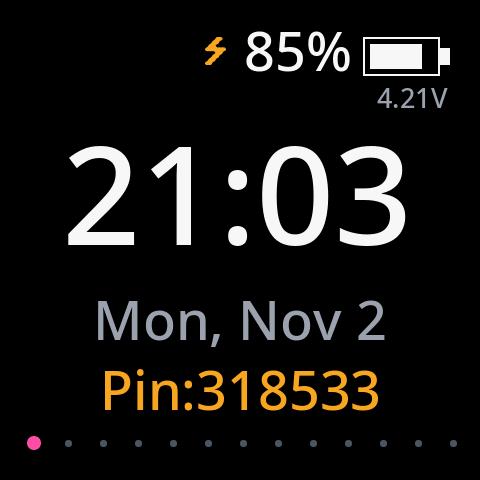
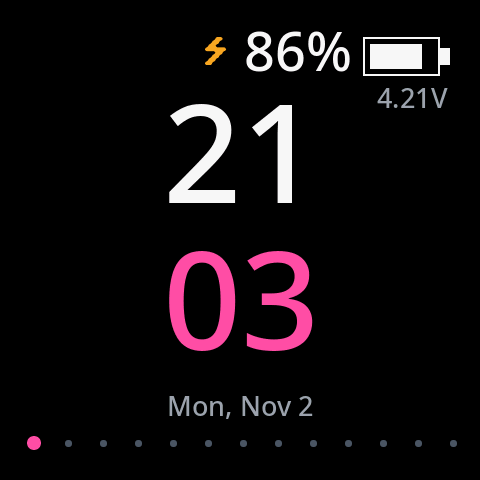
Repo cleanup: correct face screenshots, pin MeshCore in setup, current battery figures, CI update
- Screenshots: four clock face images showed the wrong face; face-big also showed a
  Bluetooth PIN. Replaced with the right ones.
- setup.sh now fetches the tested MeshCore (ci/pins.sh) instead of the default branch.
- README and DEVELOPMENT: battery figures from the overnight tests, undocumented test flags,
  LilyGo report link, no emoji in the highlights.
- Firmware zips carry the license notices; Bosch driver/firmware and SDK licenses added.
- CI: actions on Node 24, read-only token, docs-only pushes skip the build, flasher kept
  in the artifact.

Claude-Session: https://claude.ai/code/session_01BS1aGn1iJtHJb5F6A6tQgK

diff --git a/docs/DEVELOPMENT.md b/docs/DEVELOPMENT.md
@@ -38,7 +38,7 @@ lib/              vendored Crypto, CayenneLPP, base64, and MeshCore (lib/MeshCor
 flasher/          sf32-flash.py: the stand-alone flasher for users (no SDK; downloads sftool)
 tools/            sf32_debug_uart.py (flashing helper, crash debugging), shot.sh
                   (screenshots), touch.sh (remote touch, debug builds), pmstats.sh (sleep
-                  counters), gen_font.py (the UI font)
+                  counters), abstats.sh (battery tests), gen_font.py (the UI font)
 sdk-patches/      the SDK fixes below (setup.sh applies them)
 setup.sh          one-time setup: MeshCore, SDK fixes, SDK link
 env.sh            activates the SDK through ~/sifli-lilygo-sdk (a symlink; the SDK's
@@ -61,9 +61,11 @@ SF32_LOG_LEVEL=LOG_LVL_INFO ./build.sh companion   # keep log output (debugging)
   it fetches pinned versions of LilyGo's SDK, the upstream SDK's `rtos/env/packages` and
   MeshCore (`MESHCORE_REF`, default `companion-v1.18.0`) into `.ci/`, installs the SDK's
   toolchain (needs `uv`), runs `setup.sh` and `build.sh`, and leaves
-  `dist/<firmware>.zip` (bootloader.bin, main.bin, ftab.bin, main.elf). GitHub Actions
-  (`.github/workflows/build.yml`) runs it on every push and keeps the zips as the run's
-  artifacts. To move to a newer SDK or MeshCore, change the pins in the script.
+  `dist/<firmware>.zip` (bootloader.bin, main.bin, ftab.bin, main.elf and the license
+  notices) next to a copy of the flasher. GitHub Actions (`.github/workflows/build.yml`)
+  runs it on every push except docs-only ones and keeps those files as the run's artifacts.
+  To move to a newer SDK or MeshCore, change the pins in `ci/pins.sh` (`setup.sh` uses the
+  MeshCore pin too).
 
 - MeshCore sources are compiled with `-include sf32_platform.h` (Arduino.h, FS.h,
   `FILESYSTEM`) and the app's files also with `-include variant.h` (like a variant's
@@ -143,7 +145,13 @@ The same channel works on a running or crashed board:
 - Other flags: `SF32_SUN_TEST=1` (New York as the location for sun times),
   `SF32_PM_LOG=1` (sleep statistics on the console), `SF32_FRAME_LOG=1` (frame timing),
   `SF32_MOTION_LOG=1` (accelerometer every second), `SF32_SOUND_LOG=1`,
-  `SF32_I2C_SCAN=1` (I2C scan at boot).
+  `SF32_I2C_SCAN=1` (I2C scan at boot), `SF32_SENSOR_PROBE=1` (the motion sensor's virtual
+  sensors at boot), `SF32_RAINBOW_TEST=1` (Rainbow theme, not saved).
+- Bench tests that take the board over: `SF32_NOISE_TEST=1` (RSSI with the screen and audio
+  on and off, in 40 s phases), `SF32_CPU_TEST=1` (a line of CPU, clock and RSSI readings
+  every 2.5 s), `SF32_CPU_TOGGLE_TEST=1` (screen off, CPU alternating 96 / 240 MHz every
+  15 s), `SF32_SOUND_STRESS=1` (a tap sound every second and a volume change every 4 s; it
+  changes the saved Sound setting, so check that afterwards).
 
 Reflash the normal build after using a test build.
 
@@ -194,8 +202,9 @@ clock moves each minute.
 - **Sleep counters**: every companion build counts, from unplugging until USB comes back,
   the time asleep, wakes and their sources (the wake source register's bits), time held
   awake and main loop passes (`sf32_pm_stats` in SF32Board.cpp). Plug back in and run
-  `tools/pmstats.sh`. A 30-minute run measured 80 % asleep (89 % of the time nothing held
-  it awake), 44 wakes/s: 33/s the main loop timer, 11/s a pin.
+  `tools/pmstats.sh`. An overnight run with the motion sensor off measured 96 % asleep and
+  38 wakes/s from the main loop timer (LPTIM1), with almost none from pins; the sensor had
+  been causing 11 pin wakes/s.
 - **Radio on/off test** (`SF32_RADIO_AB=1 ./build.sh companion`): on battery, the radio
   listens for 2 h, then sleeps (warm, settings kept) for 2 h, and so on; the battery voltage
   every 15 min goes to `sf32_ab_log`. Plug back in and run `tools/abstats.sh`: it compares
@@ -208,8 +217,10 @@ clock moves each minute.
   version: on USB, sleeps for the first 8 min with 1 min stretches (the screen must turn off,
   so a screen timeout that stays on while plugged in blocks it). On the bench, always deep:
   the button and touch woke it normally, and it received packets (woken by the radio's pin).
-- **LilyGo's power report** (`T-Display-SF32-master/lowpowertest/`): 0.87 uA shut down, 164 uA
-  hibernating, so regulators and the charger aren't where the sleep draw goes.
+- **LilyGo's power report**
+  ([`lowpowertest/`](https://github.com/Xinyuan-LilyGO/T-Display-SF32/tree/master/lowpowertest)):
+  0.87 uA shut down, 164 uA hibernating, so regulators and the charger aren't where the
+  sleep draw goes.
 - **CPU clock scaling** (without the power manager): with the screen off for 5 s, the CPU
   drops from 240 to 96 MHz at the lower core voltage (SiFli DVFS S0) and the main loop
   wakes every 25 ms instead of 4.
@@ -295,6 +306,12 @@ TCXO 3.0 V, DC-DC regulator, DIO2 RF switch, PA26 enable (as LilyGo's examples).
   nearby. It's broadband and unaffected by the SX1262 regulator mode or CPU load; a bright
   screen adds a few dB. There's a spur at 912 MHz (19 x 48 MHz system clock), 1.5 MHz from
   the US preset.
-- Battery: ~3.4 %/h with the screen mostly off (about 16-17 mA average on 480 mAh), with
-  light sleep. Light sleep saved only about 1 mA, so most of the draw continues while the
-  chip sleeps; under investigation.
+- Battery, screen mostly off, on light sleep: 3.4 %/h on a 15 h run; about 4 %/h (34 mV/h)
+  on the overnight tests since, or about 19 mA if the battery really is 480 mAh. Light sleep
+  saved only about 1 mA, so most of the draw continues while the chip sleeps.
+- What the overnight tests changed (one thing per night, 2026-11):
+  - Motion sensor off: no measurable change.
+  - Bluetooth off (it had been advertising, no phone connected): no measurable change.
+  - Radio asleep: drains 60-70 % as fast, so the radio is 6-8 mA. About 11-13 mA is left with
+    all three off.
+  - Light vs deep sleep: under test (`SF32_SLEEP_AB`).

diff --git a/README.md b/README.md
@@ -43,14 +43,14 @@ device shows what's happening on the mesh, tests links, finds repeaters and keep
 
 | | |
 |---|---|
-| 🕐 **6 clock faces** | Color, Sun (sunrise/sunset arc), Digital, Analog, Big, Info. Hold the clock to switch |
-| 📡 **Signal tools** | Signal tester, repeater **finder** (warmer/colder), 902-928 MHz **band scan** |
-| 📊 **Mesh at a glance** | Activity graph, heard nodes, **My Nodes** with on-demand battery |
-| 🔋 **Battery** | 48 h history graph, time left, low-battery protection |
-| 🆘 **Mesh SOS** | Triple-press A: location + battery to a channel, repeated |
-| 🔦 **Extras** | Flashlight (white/red), share contact QR, auto adverts, mesh time, rotation |
-| 💻 **USB app** | MeshCore app protocol over USB too: PC tools and a raw-packet **observer** |
-| 🎨 **Themes** | 9 colour themes plus Rainbow, night mode, always-on display, tap sounds |
+| **6 clock faces** | Color, Sun (sunrise/sunset arc), Digital, Analog, Big, Info. Hold the clock to switch |
+| **Signal tools** | Signal tester, repeater **finder** (warmer/colder), 902-928 MHz **band scan** |
+| **Mesh at a glance** | Activity graph, heard nodes, **My Nodes** with on-demand battery |
+| **Battery** | 48 h history graph, time left, low-battery protection |
+| **Mesh SOS** | Triple-press A: location + battery to a channel, repeated |
+| **Extras** | Flashlight (white/red), share contact QR, auto adverts, mesh time, rotation |
+| **USB app** | MeshCore app protocol over USB too: PC tools and a raw-packet **observer** |
+| **Themes** | 9 colour themes plus Rainbow, night mode, always-on display, tap sounds |
 
 ## Screenshots
 
@@ -120,8 +120,8 @@ You need Linux or macOS with bash or zsh, git, and the board on USB.
    (it needs [uv](https://docs.astral.sh/uv/)).
 2. Clone the upstream [SiFli SDK](https://github.com/OpenSiFli/SiFli-SDK) too: LilyGo's
    download lacks `rtos/env/packages`.
-3. Run setup. It fetches MeshCore into `lib/MeshCore` (pick a version with
-   `MESHCORE_REF=<tag>`; developed against v1.18.0), applies the SDK fixes in
+3. Run setup. It fetches MeshCore into `lib/MeshCore` (the tested version,
+   `companion-v1.18.0`; pick another with `MESHCORE_REF=<tag>`), applies the SDK fixes in
    `sdk-patches/`, and links the SDK at `~/sifli-lilygo-sdk` (its build breaks on paths
    with spaces):
    ```sh
@@ -394,8 +394,9 @@ sender gets it at most once a day, at most one reply a minute, never to auto-rep
 
 ## Battery and power
 
-- **Battery life** (companion, screen mostly off): about **28-30 hours** on the 480 mAh
-  battery. Work on reducing the screen-off draw is ongoing.
+- **Battery life** (companion, screen mostly off): an estimated **22-25 hours** on the
+  480 mAh battery, from about 4 % per hour overnight. Work on reducing the screen-off draw
+  is ongoing.
 - **Low power** (on by default): the chip light-sleeps whenever the screen is off; the
   radio keeps listening and Bluetooth stays up. It stays awake on USB (charging), which
   keeps flashing working.
@@ -444,10 +445,13 @@ on the bottom edge, below the antenna) or plug in USB.
 
 Working: all three firmwares, Bluetooth pairing, touch UI, sleep, sound, motion, USB app.
 
-- **Power**: find what draws ~16 mA with the screen off (counters in `sf32_pm_stats`,
-  read with `tools/pmstats.sh`); then fewer wake-ups and deeper sleep.
+- **Power**: the screen-off draw averages about 19 mA (assuming the rated 480 mAh). The
+  radio is 6-8 mA of that; turning off the motion sensor or Bluetooth (no phone connected)
+  made no measurable difference. The remaining 11-13 mA is still being tracked down, with
+  light vs deep sleep under test. See
+  [the measurements](docs/DEVELOPMENT.md#measurements).
 - **WiFi**: needs the T-SF32-Keyboard expansion's ESP32-C6 (per LilyGo).
-- Noise floor reads about -106 dBm vs -115 on a T1000-E nearby (broadband; a spur at
+- Noise floor reads about -103 to -106 dBm vs -115 on a T1000-E nearby (broadband; a spur at
   912 MHz from the board's own clock).
 
 ## Development
@@ -462,9 +466,9 @@ src/platform/     board support: battery, radio, display, touch, BLE, USB, RTC, 
 src/arduino/      a minimal Arduino layer for MeshCore
 src/companion_ui/ the companion's screen UI (MeshCore's ui-new plus ui_*.inc)
 lib/              vendored libraries; MeshCore is fetched by setup.sh, unmodified
-tools/            flashing helper, screenshots, remote touch, sleep counters, font generator
+tools/            flashing helper, screenshots, remote touch, sleep counters, battery tests, font generator
 flasher/          stand-alone flasher for users (no SDK needed)
-ci/               build-all.sh: the clean build GitHub Actions runs on every push
+ci/               build-all.sh: the clean build GitHub Actions runs on code pushes
 sdk-patches/      fixes the LilyGo SDK needs (applied by setup.sh)
 ```
 

diff --git a/THIRD_PARTY.md b/THIRD_PARTY.md
@@ -9,9 +9,11 @@
 | base64 1.4.0 (Densaugeo) | `lib/base64` | MIT, `lib/base64/LICENSE` |
 | ed25519 (Orson Peters), part of MeshCore | `lib/MeshCore/lib/ed25519` | zlib |
 | Noto Sans Medium (The Noto Project Authors), rendered into glyph bitmaps | `src/platform/SF32Font.h` (made by `tools/gen_font.py`) | SIL OFL 1.1, `licenses/OFL-NotoSans.txt` |
-| LilyGo SiFli SDK (with RT-Thread, SiFli HAL, LilyGo's board support and C RadioLib port) | not included; see README | Apache 2.0 and others (see the SDK) |
+| LilyGo SiFli SDK (with RT-Thread, SiFli HAL, LilyGo's board support and C RadioLib port) | not in this repo (see README), compiled into the firmware | Apache 2.0, `licenses/SiFli-SDK-LICENSE.txt`, and others (see the SDK) |
+| Bosch BHI260AP driver and sensor firmware image, part of LilyGo's SDK | not in this repo, compiled into the companion | BSD-3-Clause, `licenses/Bosch-BHY2-LICENSE.txt` (Bosch's BHY2_SensorAPI) |
 
-Small changes this port needs in the SDK are in `sdk-patches/`.
+Small changes this port needs in the SDK are in `sdk-patches/`. The firmware zips carry this
+file, `LICENSE` and `licenses/`.
 
 ## QR Code generator library (src/qrcodegen)
 

diff --git a/lib/README.md b/lib/README.md
@@ -5,7 +5,7 @@
 | Crypto | 0.4.0 | rweather/Crypto (PlatformIO) | Only what MeshCore uses: SHA256, SHA512, AES128, Ed25519 (verify), plus their base classes and `utility/`. |
 | CayenneLPP | 1.6.1 | electroniccats/CayenneLPP (PlatformIO) | `src/` and the license. |
 | base64 | 1.4.0 (commit ac168f5) | Densaugeo/base64_arduino (GitHub) | `base64.hpp` (header-only), license. Used by BaseChatMesh (companion). |
-| MeshCore | v1.18.0 (developed against) | meshcore-dev/MeshCore, fetched by `../setup.sh` | Used unmodified. Includes orlp/ed25519 in `MeshCore/lib/ed25519`. |
+| MeshCore | companion-v1.18.0 (pinned in `../ci/pins.sh`) | meshcore-dev/MeshCore, fetched by `../setup.sh` | Used unmodified. Includes orlp/ed25519 in `MeshCore/lib/ed25519`. |
 
 Versions match the ones pinned in MeshCore's `platformio.ini`.
 
